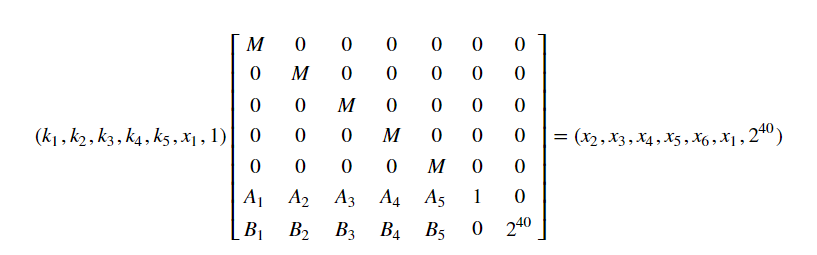
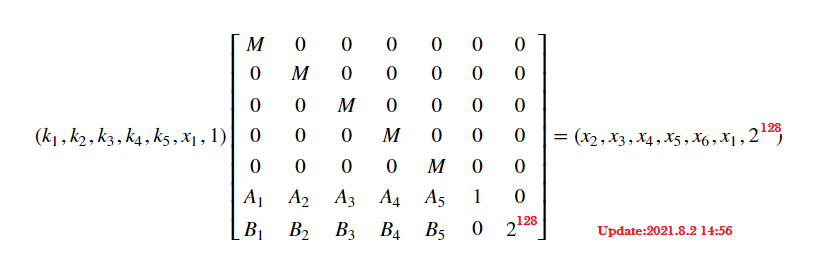
Blog

Changed region(s): [[0.7344, 0.8784, 0.918, 0.9333], [0.918, 0.4667, 0.9792, 0.5216], [0.612, 0.851, 0.6732, 0.9059]]

diff --git a/2021/07/25/LatticeNotes7/index.html b/2021/07/25/LatticeNotes7/index.html
@@ -457,6 +457,7 @@
 <p>简而言之，就是题目中出现了非常小未知数与非常大</p>
 <p>而将问题退化一个层次，我们可以通过Coppersmith定理来获取有限域内多项式的小根。</p>
 <p>Coppersmith定理：在定义域为$Z_n$的$e$阶多项式$f(x)$中，如果有一个根$x$满足$e\ln x&lt;\ln n$ ，就可以运用一个$O(\ln n)$的算法求出这些根。</p>
+<p><strong>Update 2021.8.2 增加了一些关于ECC的解题方法</strong></p>
 <h2 id="1-几种简单的构造多项式的情况"><a href="#1-几种简单的构造多项式的情况" class="headerlink" title="1.几种简单的构造多项式的情况"></a>1.几种简单的构造多项式的情况</h2><h3 id="1o01-已知明文高位"><a href="#1o01-已知明文高位" class="headerlink" title="1o01 已知明文高位"></a>1o01 已知明文高位</h3><p>假设在RSA传播过程中造成$m$的高位泄露，如果$e$是$3$，假设已知部分是$m_0$，未知部分是$x$，满足$m=m_0+x$且$3\ln x &lt; \ln n$，那么我们这个时候就可以使用Coppersmith进行攻击，此时我们只需要构造多项式<br>$$<br>f(x)=(m_0+x)^{3}<br>$$<br>令$f(x)=0$，由于$3\ln x&lt;\ln n$，我们可以在Sagemath中直接来<code>f.small_roots()</code>来解决这一问题。这也是目前最简单的一个问题了。同理，如果我把$e$上升至$5$，那么我们就需要知道八成的比特位数，满足$5\ln x &lt; \ln n$即可。</p>
 <p>同理，如果RSA中明文$m$满足$e\ln m &lt;\ln n$。（$e=3$时即$3\ln m &lt; \ln n$），那么此时我们知道了$c_1\equiv m^3 \pmod n$和$c_2\equiv (m+1)^{3} \pmod n$，那么我们可以在定义域$Z_n$中定义多项式$f(x)=x^3-c_1$和$g(x)=(x+1)^3 -c_2$，求这两个算式的公约数公约式即可。（一般是一个形如$x-a$的一次式） 这样就可以求出最终的结果了。当然，如果已知的是$(Ax+B)^3$和$(Cx+D)^3$的结果，我们也可以通过求最小公倍数的方法求出小根$x$。</p>
 <h3 id="1o02-低指数填充广播攻击的情况"><a href="#1o02-低指数填充广播攻击的情况" class="headerlink" title="1o02 低指数填充广播攻击的情况"></a>1o02 低指数填充广播攻击的情况</h3><p>由于已知低指数广播攻击可以使用中国剩余定理直接解决，我们设想一个这样的情形：</p>
@@ -488,8 +489,10 @@
 <h3 id="2o02-角最大值-对角-1-k-对值构造法"><a href="#2o02-角最大值-对角-1-k-对值构造法" class="headerlink" title="2o02 角最大值+对角$(1,-k)$对值构造法"></a>2o02 角最大值+对角$(1,-k)$对值构造法</h3><p>有些时候，若我们知道的未知数$x_i$和已知数$a_i$的关系均为线性关系，甚至可能具有一定的同态性，并且可能出现的最大数字都不超过某个特定的值（比如$2^{128}$）之类的值。那么我们可以用此方法构造。</p>
 <p>此类问题中最典型的一个就是我之前在<strong>LatticeNotes5</strong>中提及的一个LCG问题：假设你知道了一个$128$位的LCG的参数及其输出，但每一个LCG最后的$40$位被隐去了。让你求这个数列的完整值。</p>
 <p>假设我们知道的所有的输出数列可表示为$u_n=a_n+x_n$。其中$a_n$是已知的高$88$位，$x_n$是未知的低$40$位。$u_{n}$和$u_{n+1}$之间的关系是$u_{n+1} \equiv Au_n+B \pmod M$。</p>
-<p>也就是：<br>$$<br>a_{n+1}+x_{n+1} =Aa_{n}+B+x_n+k_nM<br>$$<br>建立已知数和未知数之间的关系，得：<br>$$<br>x_{n+1}=Aa_n+B-a_{n+1}+x_n+k_nM<br>$$<br>由于均为线性操作，因此我们可以设$f_2(x)=f(f(x)),f_3(x)=f(f(f(x)))$，若$f(x)=Ax+B$，则$f_2(x),f_3(x)$仍然具有线性规律。且规律为$A_{n+1}=AA_{n},B_{n+1}=AB_{n}+Aa_n+B-a_{n+1}$，不断迭代即可。</p>
+<p>也就是：<br>$$<br>a_{n+1}+x_{n+1} =Aa_{n}+B+x_n+k_nM<br>$$<br>建立已知数和未知数之间的关系，得：</p>
+<p><strong>Update 7.30 原先公式$x_n$前少了个系数$A$，已补上</strong><br>$$<br>x_{n+1}=Aa_n+B-a_{n+1}+Ax_n+k_nM<br>$$<br>由于均为线性操作，因此我们可以设$f_2(x)=f(f(x)),f_3(x)=f(f(f(x)))$，若$f(x)=Ax+B$，则$f_2(x),f_3(x)$仍然具有线性规律。且规律为$A_{n+1}=AA_{n},B_{n+1}=AB_{n}+Aa_n+B-a_{n+1}$，不断迭代即可。</p>
 <p>若我们已知了$6$组数据，就可以构造这样得一个格</p>
+<p><strong>Update 8.2： 这里原来右下角的$2^{40}$是错误的，正解是$2^{128}$</strong></p>
 <p><img src="/2021/07/25/LatticeNotes7/2.png" alt="2"></p>
 <p>很显然，依然是$\vec xL=\vec y$的形式，$\vec x,\vec y$覆盖了所有的未知量$x$和$k$，$L$中所有的内容都是已知量。</p>
 <p>而此处这个$2^{40}$就起到了一个限位的作用，该操作使得最后所有的$x$都不超过$2^{40}$，也作为了一个标志性的事物，告诉我们以$2^{40}$结尾的那一行才是答案。</p>
@@ -503,6 +506,17 @@
 <p><strong>LatticeNotes5</strong>还有一个解决哈希冲突的题目，也是此类问题的典型。</p>
 <p>这种方法就是在定上限的情况下，若我们构造的行向量$\vec x$中涉及到常数$1$，此时就可以通过$\vec x$中的那个$1$与矩阵$L$中的上限值相乘得到上限值放入结果向量$\vec y$中。</p>
 <p>还可以点击[这里](<a target="_blank" rel="noopener" href="https://blog.soreatu.com/posts/intended-solution-to-nhp-in-gxzyctf-2020/">Intended Solution to NHP in GxzyCTF 2020 | Soreat_u’s Blog (soreatu.com)</a>)对此方法身价了解。</p>
+<h3 id="2o03-构造大数，化大为小"><a href="#2o03-构造大数，化大为小" class="headerlink" title="2o03 构造大数，化大为小"></a>2o03 构造大数，化大为小</h3><p>根据Coppersmith定理：若多项式$f(x)$模数为$n$，次数为$e$，如果存在$x$满足$f(x)=0$且$e\ln x&lt;\ln n$，那么符合条件的这个$x$值是可以被快速解出的。</p>
+<p>比如看一下这道题：</p>
+<figure class="highlight python"><table><tr><td class="gutter"><pre><span class="line">1</span><br><span class="line">2</span><br><span class="line">3</span><br><span class="line">4</span><br><span class="line">5</span><br><span class="line">6</span><br><span class="line">7</span><br><span class="line">8</span><br><span class="line">9</span><br><span class="line">10</span><br><span class="line">11</span><br><span class="line">12</span><br><span class="line">13</span><br><span class="line">14</span><br><span class="line">15</span><br><span class="line">16</span><br><span class="line">17</span><br></pre></td><td class="code"><pre><span class="line"><span class="comment">#Sagemath</span></span><br><span class="line"><span class="keyword">from</span> Crypto.Util.number <span class="keyword">import</span> *</span><br><span class="line"><span class="keyword">from</span> os <span class="keyword">import</span> urandom</span><br><span class="line"><span class="keyword">from</span> secret <span class="keyword">import</span> m1,m2</span><br><span class="line"><span class="function"><span class="keyword">def</span> <span class="title">Enc</span>(<span class="params">Mx,My</span>):</span></span><br><span class="line">    p=getPrime(<span class="number">400</span>)</span><br><span class="line">    a=bytes_to_long(urandom(<span class="number">80</span>))%p</span><br><span class="line">    b=(My**<span class="number">2</span>-Mx**<span class="number">3</span>-a*Mx)%p</span><br><span class="line">    E=EllipticCurve(GF(p),[a,b])</span><br><span class="line">    M=E(Mx,My)</span><br><span class="line">    C=<span class="number">3</span>*M</span><br><span class="line">    <span class="keyword">return</span> C[<span class="number">0</span>],C[<span class="number">1</span>],a,b,p</span><br><span class="line">m1,m2=*,* <span class="comment">#To Solve</span></span><br><span class="line">Cipher=[]</span><br><span class="line"><span class="keyword">for</span> i <span class="keyword">in</span> range(<span class="number">87</span>):</span><br><span class="line">    Cipher.append(Enc(m1,m2))</span><br><span class="line">print(Cipher)</span><br></pre></td></tr></table></figure>
+
+<p>很明显，这是椭圆曲线上的低指数广播攻击，明文点$M(x,y)$，通过构造不同的椭圆曲线$E$，对这个$M$点进行了加密，但加密指数统一为$3$，也就是最后给出了在不同曲线上的$3P$值。</p>
+<p>根据椭圆曲线上的点$x_{3P}(=c)$与$x{_P}(=x)$的关系可以得到：<br>$$<br>c=\dfrac{x^9 - 12ax^7 - 96bx^6 + 30a^2x^5 - 24abx^4 + (36a^3 + 48b^2)x^3 + 48a^2bx^2 + (a^4 + 32ab^2 + 8(a^3 + 8b^2)a)x + 8(a^3 + 8b^2)b}{9x^8 + 36ax^6 + 72bx^5 + 30a^2x^4 + 144abx^3 + (-12a^3 + 144b^2)x^2 - 24a^2bx + a^4}<br>$$<br>因此，对于题目中给出的$87$个不同曲线上的$3P$，我们都可以通过构造上面的多项式来解决这个问题，如果设上面公式中等号右边的分子部分是$S$，分母部分是$D$，那么我们可以构造$9$次多项式<br>$$<br>f_n(x)\equiv S-Dc \pmod {p_n}<br>$$<br>其中$n$从$1$取到$87$，这样就有了$87$个不同的多项式了，但这些多项式的作用域都不相同。</p>
+<p>这个时候跟RSA中的广播攻击一样，也可以使用中国剩余定理了。但这一次的中国剩余定理的运用略有不同：首先我们计算$N=\prod_{i=1}^{87}p_i$，即所有$p$的乘积。由于$\dfrac{\ln p}{\ln 2}=400$，因此这里差不多是$\ln n=87\ln p$，$n$的比特位数迅速上涨到了$34000$以上——这比任何数都大。</p>
+<p>然后对于所有$f_n(x)$中，从常数项到$9$次项，每一项均使用一次中国剩余定理，也就是所有常数项构成的数组对所有$p$构成的数组进行计算。并最后汇总$Z_N$上的一个非常大的九次多项式$F(x)$，该式不仅处于一个很大的环$Z_N$上，常数项到$x^8$项每一项的系数都非常大（$x^9$的系数恒定为$1$）。而我们想求的$x_P$，仍然满足$F(x_P)\equiv 0 \pmod N$。并且这里一定满足$9\ln x_P&lt;\ln N$，可以直接用Coppersmith定理求解</p>
+<figure class="highlight python"><table><tr><td class="gutter"><pre><span class="line">1</span><br><span class="line">2</span><br><span class="line">3</span><br><span class="line">4</span><br><span class="line">5</span><br><span class="line">6</span><br><span class="line">7</span><br><span class="line">8</span><br><span class="line">9</span><br><span class="line">10</span><br><span class="line">11</span><br><span class="line">12</span><br><span class="line">13</span><br><span class="line">14</span><br><span class="line">15</span><br><span class="line">16</span><br><span class="line">17</span><br><span class="line">18</span><br><span class="line">19</span><br><span class="line">20</span><br><span class="line">21</span><br><span class="line">22</span><br><span class="line">23</span><br><span class="line">24</span><br><span class="line">25</span><br><span class="line">26</span><br><span class="line">27</span><br><span class="line">28</span><br><span class="line">29</span><br><span class="line">30</span><br><span class="line">31</span><br><span class="line">32</span><br><span class="line">33</span><br><span class="line">34</span><br><span class="line">35</span><br><span class="line">36</span><br><span class="line">37</span><br></pre></td><td class="code"><pre><span class="line"><span class="comment">#Sagemath</span></span><br><span class="line">Cipher=[]</span><br><span class="line">Cxarr,Cyarr,Aarr,Barr,Parr=[[[<span class="number">0</span>] <span class="keyword">for</span> __ <span class="keyword">in</span> range(<span class="number">87</span>)]<span class="keyword">for</span> _ <span class="keyword">in</span> range(<span class="number">5</span>)]</span><br><span class="line"><span class="keyword">for</span> i <span class="keyword">in</span> range(<span class="number">87</span>):</span><br><span class="line">    Cxarr[i],Cyarr[i],Aarr[i],Barr[i],Parr[i]=Cipher[i]</span><br><span class="line">N=prod(Parr)</span><br><span class="line">F=[]</span><br><span class="line"><span class="keyword">for</span> i <span class="keyword">in</span> range(<span class="number">87</span>):</span><br><span class="line">    a,b,p=Aarr[i],Barr[i],Parr[i]</span><br><span class="line">    R.&lt;x&gt;=PolynomialRing(Zmod(p))</span><br><span class="line">    Fz=x^<span class="number">9</span> - <span class="number">12</span>*a*x^<span class="number">7</span> - <span class="number">96</span>*b*x^<span class="number">6</span> + <span class="number">30</span>*a^<span class="number">2</span>*x^<span class="number">5</span> - <span class="number">24</span>*a*b*x^<span class="number">4</span> + (<span class="number">36</span>*a^<span class="number">3</span> + <span class="number">48</span>*b^<span class="number">2</span>)*x^<span class="number">3</span> + <span class="number">48</span>*a^<span class="number">2</span>*b*x^<span class="number">2</span> + (a^<span class="number">4</span> + <span class="number">32</span>*a*b^<span class="number">2</span> + <span class="number">8</span>*(a^<span class="number">3</span> + <span class="number">8</span>*b^<span class="number">2</span>)*a)*x + <span class="number">8</span>*(a^<span class="number">3</span> + <span class="number">8</span>*b^<span class="number">2</span>)*b</span><br><span class="line">    Fm=<span class="number">9</span>*x^<span class="number">8</span> + <span class="number">36</span>*a*x^<span class="number">6</span> + <span class="number">72</span>*b*x^<span class="number">5</span> + <span class="number">30</span>*a^<span class="number">2</span>*x^<span class="number">4</span> + <span class="number">144</span>*a*b*x^<span class="number">3</span> + (<span class="number">-12</span>*a^<span class="number">3</span> + <span class="number">144</span>*b^<span class="number">2</span>)*x^<span class="number">2</span> - <span class="number">24</span>*a^<span class="number">2</span>*b*x + a^<span class="number">4</span></span><br><span class="line">    Fx=(Fz-Cxarr[i]*Fm)</span><br><span class="line">    F.append(Fx)</span><br><span class="line">R.&lt;x&gt;=PolynomialRing(Zmod(N))</span><br><span class="line">G=<span class="number">0</span></span><br><span class="line"><span class="keyword">for</span> i <span class="keyword">in</span> range(<span class="number">10</span>):</span><br><span class="line">    Arrcrt=[]</span><br><span class="line">    <span class="keyword">for</span> j <span class="keyword">in</span> range(<span class="number">87</span>):</span><br><span class="line">        Arrcrt.append(Integer(F[j][i]))</span><br><span class="line">    G+=crt(Arrcrt,Parr)*x**i</span><br><span class="line">m1=G.small_roots(epsilon=<span class="number">1</span>/<span class="number">13</span>)[<span class="number">0</span>]</span><br><span class="line">print(m1)</span><br><span class="line">E=EllipticCurve(GF(Parr[<span class="number">0</span>]),[Aarr[<span class="number">0</span>],Barr[<span class="number">0</span>]])</span><br><span class="line">O=E(<span class="number">483680648326747026189680</span>, <span class="number">119181855961981</span>)</span><br><span class="line">(m1^<span class="number">3</span>+Aarr[<span class="number">0</span>]*m1+Barr[<span class="number">0</span>])%Parr[<span class="number">0</span>],<span class="number">119181855961981</span>**<span class="number">2</span>%Parr[<span class="number">0</span>]</span><br><span class="line">m2=min(Parr[<span class="number">0</span>]-pow(<span class="number">14204314790542386034917444361</span>,(Parr[<span class="number">0</span>]+<span class="number">1</span>)//<span class="number">4</span>,Parr[<span class="number">0</span>]),pow(<span class="number">14204314790542386034917444361</span>,(Parr[<span class="number">0</span>]+<span class="number">1</span>)//<span class="number">4</span>,Parr[<span class="number">0</span>]))</span><br><span class="line">print(m2)</span><br><span class="line">print(long_to_bytes(m1)+long_to_bytes(m2))</span><br><span class="line"></span><br><span class="line"></span><br><span class="line"><span class="string">&#x27;&#x27;&#x27;</span></span><br><span class="line"><span class="string">483680648326747026189680</span></span><br><span class="line"><span class="string">119181855961981</span></span><br><span class="line"><span class="string">flag&#123;Example003&#125;</span></span><br><span class="line"><span class="string">&#x27;&#x27;&#x27;</span></span><br><span class="line"></span><br></pre></td></tr></table></figure>
+
+<p>至于$y_{P}$怎么求，我们可以选一组带模$4$余$3$的$p$的数据，根据有限域内开平方公式，直接计算$(x^{3}+ax+b)^{(p+1)/4} \mod p$的值即可。</p>
 
                 
             </div>

diff --git a/2021/01/27/Lfsr-Notes/index.html b/2021/01/27/Lfsr-Notes/index.html
@@ -469,6 +469,11 @@
 <p>$32$位的lfsr，告诉了我们只需要知道输出的最开始的$32$个数字，我们就可以递推求出seed，代码如下：</p>
 <figure class="highlight python"><table><tr><td class="gutter"><pre><span class="line">1</span><br><span class="line">2</span><br><span class="line">3</span><br><span class="line">4</span><br><span class="line">5</span><br><span class="line">6</span><br><span class="line">7</span><br><span class="line">8</span><br><span class="line">9</span><br><span class="line">10</span><br><span class="line">11</span><br><span class="line">12</span><br><span class="line">13</span><br><span class="line">14</span><br><span class="line">15</span><br><span class="line">16</span><br><span class="line">17</span><br><span class="line">18</span><br><span class="line">19</span><br><span class="line">20</span><br><span class="line">21</span><br><span class="line">22</span><br><span class="line">23</span><br><span class="line">24</span><br><span class="line">25</span><br><span class="line">26</span><br></pre></td><td class="code"><pre><span class="line"><span class="keyword">from</span> Crypto.Util.number <span class="keyword">import</span> *</span><br><span class="line">mask = <span class="number">0b10100100000010000000100010010100</span></span><br><span class="line">b = <span class="string">&#x27;&#x27;</span></span><br><span class="line">N = <span class="number">32</span></span><br><span class="line"><span class="keyword">with</span> open(<span class="string">&#x27;key.txt&#x27;</span>, <span class="string">&#x27;rb&#x27;</span>) <span class="keyword">as</span> f:</span><br><span class="line">    b = f.read()</span><br><span class="line">key = <span class="string">&#x27;&#x27;</span></span><br><span class="line">print(bin(bytes_to_long(b)))</span><br><span class="line"><span class="keyword">for</span> i <span class="keyword">in</span> range(N // <span class="number">8</span>):</span><br><span class="line">    t = b[i]</span><br><span class="line">    <span class="keyword">for</span> j <span class="keyword">in</span> range(<span class="number">7</span>, <span class="number">-1</span>, <span class="number">-1</span>):</span><br><span class="line">        key += str(t &gt;&gt; j &amp; <span class="number">1</span>)</span><br><span class="line">print(key)</span><br><span class="line">idx = <span class="number">0</span></span><br><span class="line">ans = <span class="string">&quot;&quot;</span></span><br><span class="line">key = key[<span class="number">31</span>] + key[:<span class="number">32</span>]</span><br><span class="line"><span class="keyword">while</span> idx &lt; <span class="number">32</span>:</span><br><span class="line">    tmp = <span class="number">0</span></span><br><span class="line">    <span class="keyword">for</span> i <span class="keyword">in</span> range(<span class="number">32</span>):</span><br><span class="line">        <span class="keyword">if</span> mask &gt;&gt; i &amp; <span class="number">1</span>:</span><br><span class="line">            tmp ^= int(key[<span class="number">31</span> - i])</span><br><span class="line">    ans = str(tmp) + ans</span><br><span class="line">    idx += <span class="number">1</span></span><br><span class="line">    key = key[<span class="number">31</span>] + str(tmp) + key[<span class="number">1</span>:<span class="number">31</span>]</span><br><span class="line">num = int(ans, <span class="number">2</span>)</span><br><span class="line"><span class="keyword">print</span> (hex(num))</span><br></pre></td></tr></table></figure>
 
+<p><strong>Update 2021.7.29 增加一个更简单易懂的脚本</strong></p>
+<figure class="highlight python"><table><tr><td class="gutter"><pre><span class="line">1</span><br><span class="line">2</span><br><span class="line">3</span><br><span class="line">4</span><br><span class="line">5</span><br><span class="line">6</span><br><span class="line">7</span><br><span class="line">8</span><br><span class="line">9</span><br><span class="line">10</span><br><span class="line">11</span><br><span class="line">12</span><br><span class="line">13</span><br><span class="line">14</span><br><span class="line">15</span><br><span class="line">16</span><br></pre></td><td class="code"><pre><span class="line"><span class="keyword">from</span> Crypto.Util.number <span class="keyword">import</span> *</span><br><span class="line"><span class="function"><span class="keyword">def</span> <span class="title">padbin</span>(<span class="params">x,l=<span class="number">32</span></span>):</span></span><br><span class="line">    s=bin(x)[<span class="number">2</span>:]</span><br><span class="line">    <span class="keyword">if</span>(len(s)&lt;l):</span><br><span class="line">        s=(l-len(s))*<span class="string">&#x27;0&#x27;</span>+s</span><br><span class="line">    <span class="keyword">return</span> s</span><br><span class="line">mask=padbin(<span class="number">0x80000057</span>)</span><br><span class="line">state=padbin(<span class="number">0x155a796b</span>)</span><br><span class="line"><span class="keyword">for</span> i <span class="keyword">in</span> range(<span class="number">32</span>):</span><br><span class="line">    s=int(state[<span class="number">0</span>])</span><br><span class="line">    <span class="comment">#print(len(state),len(mask))</span></span><br><span class="line">    <span class="keyword">for</span> j <span class="keyword">in</span> range(<span class="number">31</span>):</span><br><span class="line">        s^=int(mask[j])&amp;int(state[j+<span class="number">1</span>])</span><br><span class="line">    state=state+str(s&amp;<span class="number">1</span>) </span><br><span class="line">    state=state[<span class="number">1</span>:]</span><br><span class="line">print(hex(int(state,<span class="number">2</span>))[<span class="number">2</span>:])</span><br></pre></td></tr></table></figure>
+
+
+
 <h3 id="PART-3-64-digs"><a href="#PART-3-64-digs" class="headerlink" title="PART 3[64 digs]"></a>PART 3[64 digs]</h3><p>可以求出mask的，例题为**[AFCTF2018]Tiny LFSR**，64位是无法爆破的</p>
 <p>详细内容请见文章<strong>21Jan2</strong>，发布时间为2021.1.21</p>
 <h3 id="PART-4-256-digs"><a href="#PART-4-256-digs" class="headerlink" title="PART 4[256 digs]"></a>PART 4[256 digs]</h3><p>我们来看这样一道题目**[De1CTF2019]Babylfsr**</p>

diff --git a/2021/02/03/LatticeNotes2/index.html b/2021/02/03/LatticeNotes2/index.html
@@ -496,13 +496,14 @@
 <p> <strong>(Hermite定理)</strong> 维数$n$的每一个格$L$都包含一个长度不超过$\sqrt n· \sqrt[n]{\det L}$的向量$\vec v$</p>
 <p> <strong>(Hermite常数)</strong> 在给定维数下，每一个格$L$的最短非零向量$\vec v$的长度的平方都不超过$ y_n\sqrt[n]{\det^2 L} $。其中$y_2$到$y_8$和$y_{24}$的值是目前已知的。这些数字分别是$ \dfrac 4 3,2,4,8,\dfrac {64} 3,64,256,4 $。不过$y_n \in [\dfrac {n}{2 \pi e},\dfrac{n}{\pi e}]$</p>
 <p>把这个定理扩展一下，有这样的结论：在维数为$n$的格$L$中，存在一组基底，使得这些基底中每个向量的长度的乘积不超过$\sqrt{n^n}·\det L$。这一是对我们之前结论”$\det L$不超过所有向量长度的乘积”这一定理的补充。</p>
-<p><strong>Hadamard比率</strong>：假设$\vec v_1,\vec v_2,…,\vec v_n$是格$L$的一基底$B$，那么Hadamard比率计算公式就是$H(B)=\dfrac{\det L}{\prod_{i=1}^n |\vec v_i|}$。这个值总是在$(0,1]$之间，并且这个值越接近$1$，就表示这一组基底中的向量越正交。</p>
+<p><strong>Hadamard比率</strong>：假设$\vec v_1,\vec v_2,…,\vec v_n$是格$L$的一基底$B$，那么Hadamard比率$H(B)$计算公式满足$H(B)=(\dfrac{\det L}{\prod_{i=1}^n |\vec v_i|})^{1/n}$。$H(B)$的值总是在$(0,1]$之间，并且这个值越接近$1$，就表示这一组基底中的向量越正交。</p>
 <p><strong>封闭球：</strong>在向量空间$R^n$中，任何与向量$\vec a$距离不超过$r$的空间的集合，称作向量$\vec a$的封闭球，记为$B_r(\vec a)$，表达式为$(x_1-a_1)^2+(x_2-a_2)^2+…+(x_n-a_n)^2 ≤ r^2$。其中$x_1$到$x_n$是坐标分量，$a_1$到$a_n$时向量$\vec a$的分量。</p>
 <p> <strong>4个定义</strong>：当$S$是向量空间$R^n$的一个子集时，我们有如下定义：</p>
-<p>若$S$中向量的长度是<strong>有界的</strong>，那么存在一个实数$r$ 使得$S$中所有的向量都包含在封闭球$B_r(\vec 0)$中。在二维平面上就是包含在圆$x^2+y^2=r^2$内。</p>
-<p>若$S$中向量时<strong>对称的</strong>，那么若$\vec a$在$S$中，则$-\vec a$也在$S$中，并且$\vec a +(- \vec a)= \vec 0$</p>
-<p>如果$S$是<strong>凸性的</strong>，那么$S$中有任意两点$A,B$则线段$AB$上的每一个点都在$S$中。</p>
-<p>如果$S$是<strong>封闭的</strong>，那么对于$S$中的一点$A$，任意取值$r&gt;0$，$B_r(\vec {OA})$中都有属于$S$的点，则点$A$也在$S$中。</p>
+<p><strong>Update 7.29 修改了2月份的逻辑错误表述</strong></p>
+<p>如果存在一个实数$r$ 使得$S$中所有的向量都包含在封闭球$B_r(\vec 0)$中。在二维平面上就是包含在圆$x^2+y^2=r^2$内。那么称$S$中向量的长度是<strong>有界的</strong>，</p>
+<p>若$\vec a$在$S$中，$-\vec a$也在$S$中，并且$\vec a +(- \vec a)= \vec 0$，那么称$S$中向量时<strong>对称的</strong>，</p>
+<p>如果$S$中有任意两点$A,B$则线段$AB$上的每一个点都在$S$中，那么称$S$是<strong>凸性的</strong>，</p>
+<p>如果对于$S$中的一点$A$，任意取值$r&gt;0$，$B_r(\vec {OA})$中都有属于$S$的点，则点$A$也在$S$中，那么称是<strong>封闭的</strong>，</p>
 <h4 id="52o02-Minkowski定理"><a href="#52o02-Minkowski定理" class="headerlink" title="52o02   Minkowski定理"></a>52o02   Minkowski定理</h4><p><strong>（Minkowski定理）</strong>：设$L$是$R^n$中的一个格，$S$是$R^n$中的一个对称凸集，那么$S$的体积$\text{Vol }S&gt; 2^n \det L$时，$S$中就包含一个非零格向量。如果$S$是封闭的，那么上面的不等式也可以取等号。</p>
 <h3 id="5x03-高斯启发式"><a href="#5x03-高斯启发式" class="headerlink" title="5x03 高斯启发式"></a>5x03 高斯启发式</h3><h4 id="53o01-伽马函数"><a href="#53o01-伽马函数" class="headerlink" title="53o01 伽马函数"></a>53o01 伽马函数</h4><p> 伽马函数的定义域是$s&gt;0$，表达式如下</p>
 <p><img src="/2021/02/03/LatticeNotes2/3.png" alt="3"></p>

diff --git a/2021/02/05/LatticeNotes4/index.html b/2021/02/05/LatticeNotes4/index.html
@@ -454,7 +454,7 @@
                 <h1 id="huangx607087学习格密码的笔记4"><a href="#huangx607087学习格密码的笔记4" class="headerlink" title="huangx607087学习格密码的笔记4"></a>huangx607087学习格密码的笔记4</h1><h2 id="0-About"><a href="#0-About" class="headerlink" title="0. About"></a>0. About</h2><p>一个密码学fw的学习笔记，别看，很菜的。</p>
 <p>这个笔记接着之前发布的笔记3，继续往后面扩展新的内容。</p>
 <h2 id="10-NTRU公钥加密系统"><a href="#10-NTRU公钥加密系统" class="headerlink" title="10.NTRU公钥加密系统"></a>10.NTRU公钥加密系统</h2><h3 id="10x00-Introduction"><a href="#10x00-Introduction" class="headerlink" title="10x00 Introduction"></a>10x00 Introduction</h3><p>基于整数因式分解难度或离散对数问题的密码系统是基于群的密码系统，因为底层的硬问题只涉及一个操作。 对于RSA、Diffie-Hellman和ElGamal，该组是模量$m$的单位模$m$的组，它可能是素数或复合的，群运算是乘法模$m$。对于ECC，组是椭圆曲线模$p$上的点集，群运算是椭圆曲线加法。</p>
-<p>环是具有加法和乘法两种运算的代数对象，它们是通过分配律连接起来的。 在这一部分中，我们描述了NTRU公钥密码系统。 使用卷积多项式环最自然地描述NTRU，但潜在的硬数学问题也可以解释为晶格中的SVP或CVP。</p>
+<p>环是具有加法和乘法两种运算的代数对象，它们是通过分配律连接起来的。 在这一部分中，我们描述了NTRU公钥密码系统。 使用卷积多项式环最自然地描述NTRU，但潜在的困难的数学问题也可以解释为晶格中的SVP或CVP。</p>
 <h3 id="10x01-NTRU公钥密码体制"><a href="#10x01-NTRU公钥密码体制" class="headerlink" title="10x01 NTRU公钥密码体制"></a>10x01 NTRU公钥密码体制</h3><p>固定一个整数$n≥1$和两个模数$p,q$并令$R,R_p,R_q$分别为卷积多项式环。（具体内容请回顾笔记3）</p>
 <p>我们可以先将多项式$f(x)\in R$通过取模的方式降低其系数，使其成为$R_p$或者$R_q$中的元素，当然，我们也可以将$R_p$或者$R_q$中的元素看作是$R$中的元素。我们可以对参数$n,p,q$做出各种假设，特别地，我们可以要求$n$是素数，$\gcd (n,q)=\gcd(p,q)=1$等等。</p>
 <p>在进入NTRU密码体制之前，我们要先引入一个符号：$T(d_1,d_2)$表示一类多项式的集合。若$f(x)\in T(d_1,d_2)$，就意味着$f(x)$中，有$d_1$个系数的值为$1$，有$d_2$个系数的值为$-1$，其他的系数的值均为$0$。例如：$f(x)=x^7-x^6+x^4+x^3-x+1\in T(4,2)$</p>

diff --git a/2021/03/25/ECCNotes3/index.html b/2021/03/25/ECCNotes3/index.html
@@ -459,7 +459,7 @@
 <p>$$<br>F_{2i}=F_{i+2}F_{i}^3-F_{i+1}^3F_{i-1}<br>$$</p>
 <p>$$<br>F_{2i+1}=\dfrac{F_i(F_{i+2}F_{i-1}^2-F_{i-2}F^2_{i+1})}{2y}<br>$$</p>
 <p>顺便我们在定义一下多项式$G,H$<br>$$<br>G_{i}=xF_i^2-F_{i+1}F_{i-1}<br>$$</p>
-<p>$$<br>H_i=(F_{i+2}F_{i-1}^2-F_{i-2}F^2_{i+1}<br>$$</p>
+<p>$$<br>H_i=(F_{i+2}F_{i-1}^2-F_{i-2}F^2_{i+1}) /4y<br>$$</p>
 <p>所以，我们可以得到以下的式子：<br>$$<br>mP=(\dfrac{G_m(P)}{F_m^2(P)},\dfrac{H_m(P)}{F_m^3(P)})<br>$$<br>而这个式子如果想实现的话，可以调用sagemath中的<code>_multiple_x_numerator</code>,<code>_multiple_x_denominator</code>两个函数来实现对$x$坐标的数乘的多项式（最终用$x$表示）</p>
 <figure class="highlight python"><table><tr><td class="gutter"><pre><span class="line">1</span><br><span class="line">2</span><br><span class="line">3</span><br><span class="line">4</span><br><span class="line">5</span><br><span class="line">6</span><br></pre></td><td class="code"><pre><span class="line">E=EllipticCurve(GF(<span class="number">10007</span>),[<span class="number">5362</span>,<span class="number">7045</span>])</span><br><span class="line">Fz=E._multiple_x_numerator(<span class="number">7</span>)</span><br><span class="line">Fz</span><br><span class="line"><span class="string">&#x27;&#x27;&#x27;</span></span><br><span class="line"><span class="string">x^49 + 9573*x^47 + 1673*x^46 + 9230*x^45 + 7088*x^44 + 2559*x^43 + 1491*x^42 + 1730*x^41 + 1886*x^40 + 8655*x^39 + 9529*x^38 + 2785*x^37 + 3587*x^36 + 3847*x^35 + 3439*x^34 + 1171*x^33 + 7340*x^32 + 2033*x^31 + 5346*x^30 + 3021*x^29 + 6843*x^28 + 1123*x^27 + 6261*x^26 + 4150*x^25 + 5110*x^24 + 9659*x^23 + 8409*x^22 + 6218*x^21 + 1501*x^20 + 4233*x^19 + 4240*x^18 + 5172*x^17 + 2625*x^16 + 1767*x^15 + 5499*x^14 + 7768*x^13 + 308*x^12 + 1527*x^11 + 2631*x^10 + 6193*x^9 + 6584*x^8 + 9405*x^7 + 1509*x^6 + 7683*x^5 + 3994*x^4 + 8777*x^3 + 2600*x^2 + 3465*x + 993</span></span><br><span class="line"><span class="string">&#x27;&#x27;&#x27;</span></span><br></pre></td></tr></table></figure>
 

diff --git a/friends/index.html b/friends/index.html
@@ -804,6 +804,27 @@
                             </div>
                         </div>
                         
+                        
+                        <div class="col s12 m6 l4 friend-div" data-aos="zoom-in-up">
+                            <div class="card frind-card5">
+                                <div class="frind-ship">
+                                    <div class="title">
+                                        <img src="https://q1.qlogo.cn/g?b=qq&s=640&nk=1609515942" alt="img">
+                                        <div>
+                                            <h1 class="friend-name">To1in</h1>
+                                            <p style="position: relative;top: -35px;">[CTF-Crypto]</p>
+                                        </div>
+                                    </div>
+                                    <div class="friend-button">
+                                        <a href="http://blog.tolinchan.xyz/" target="_blank"
+                                            class="button button-glow button-rounded button-caution">
+                                            前去学习
+                                        </a>
+                                    </div>
+                                </div>
+                            </div>
+                        </div>
+                        
                     </div>
                     
                 </article>

diff --git a/2021/02/04/LatticeNotes3/index.html b/2021/02/04/LatticeNotes3/index.html
@@ -497,6 +497,9 @@
 <p><img src="/2021/02/04/LatticeNotes3/3.png" alt="3"></p>
 <p>但环跟$GF$域不一样，无论环长度或者模数是不是素数， 环都是有意义的，并且在某些情况下，使用合数$q$产生的效果反而比使用素数来的更好（比如$q=2^k$）</p>
 <p>一般来说，如果$q$是素数$p$的幂，那么为了计算$R_q$中$ f(x)$的逆，首先计算$R_p$中的逆，然后“提升”这个值到$R_{p^2}$中的逆，然后在$R_{p^4}$中提升到逆，以此类推。 同样，如果$q$是多个素数（幂）$q_i$的乘积，则首先计算$R_{q_i}$中的逆，然后使用中国余数定理组合逆。</p>
+<p><strong>Update 7.29 增加了具体实现方法：</strong></p>
+<p>下面我们来讨论一下具体在$R_q$中求出某个多项式$f(x)$的逆，其中$q=p^{e}$:</p>
+<p>假设我们已知:<br>$$<br>f(x)F(x)\equiv 1 \pmod {p^i}<br>$$<br>那么我们有<br>$$<br>G(x)=(2-f(x)F(x))F(x)<br>$$<br>使得$f(x)G(x)\equiv 1 \pmod p^{2i}$</p>
 
                 
             </div>

diff --git a/about/index.html b/about/index.html
@@ -504,7 +504,7 @@
         },
         xAxis: {
             type: 'category',
-            data: ["2020-07","2020-08","2020-09","2020-10","2020-11","2020-12","2021-01","2021-02","2021-03","2021-04","2021-05","2021-06","2021-07"]
+            data: ["2020-08","2020-09","2020-10","2020-11","2020-12","2021-01","2021-02","2021-03","2021-04","2021-05","2021-06","2021-07","2021-08"]
         },
         yAxis: {
             type: 'value',
@@ -514,7 +514,7 @@
                 name: '文章篇数',
                 type: 'line',
                 color: ['#6772e5'],
-                data: [0,0,0,9,5,0,10,12,3,1,1,0,5],
+                data: [0,0,9,5,0,10,12,3,1,1,0,5,0],
                 markPoint: {
                     symbolSize: 45,
                     color: ['#fa755a','#3ecf8e','#82d3f4'],
